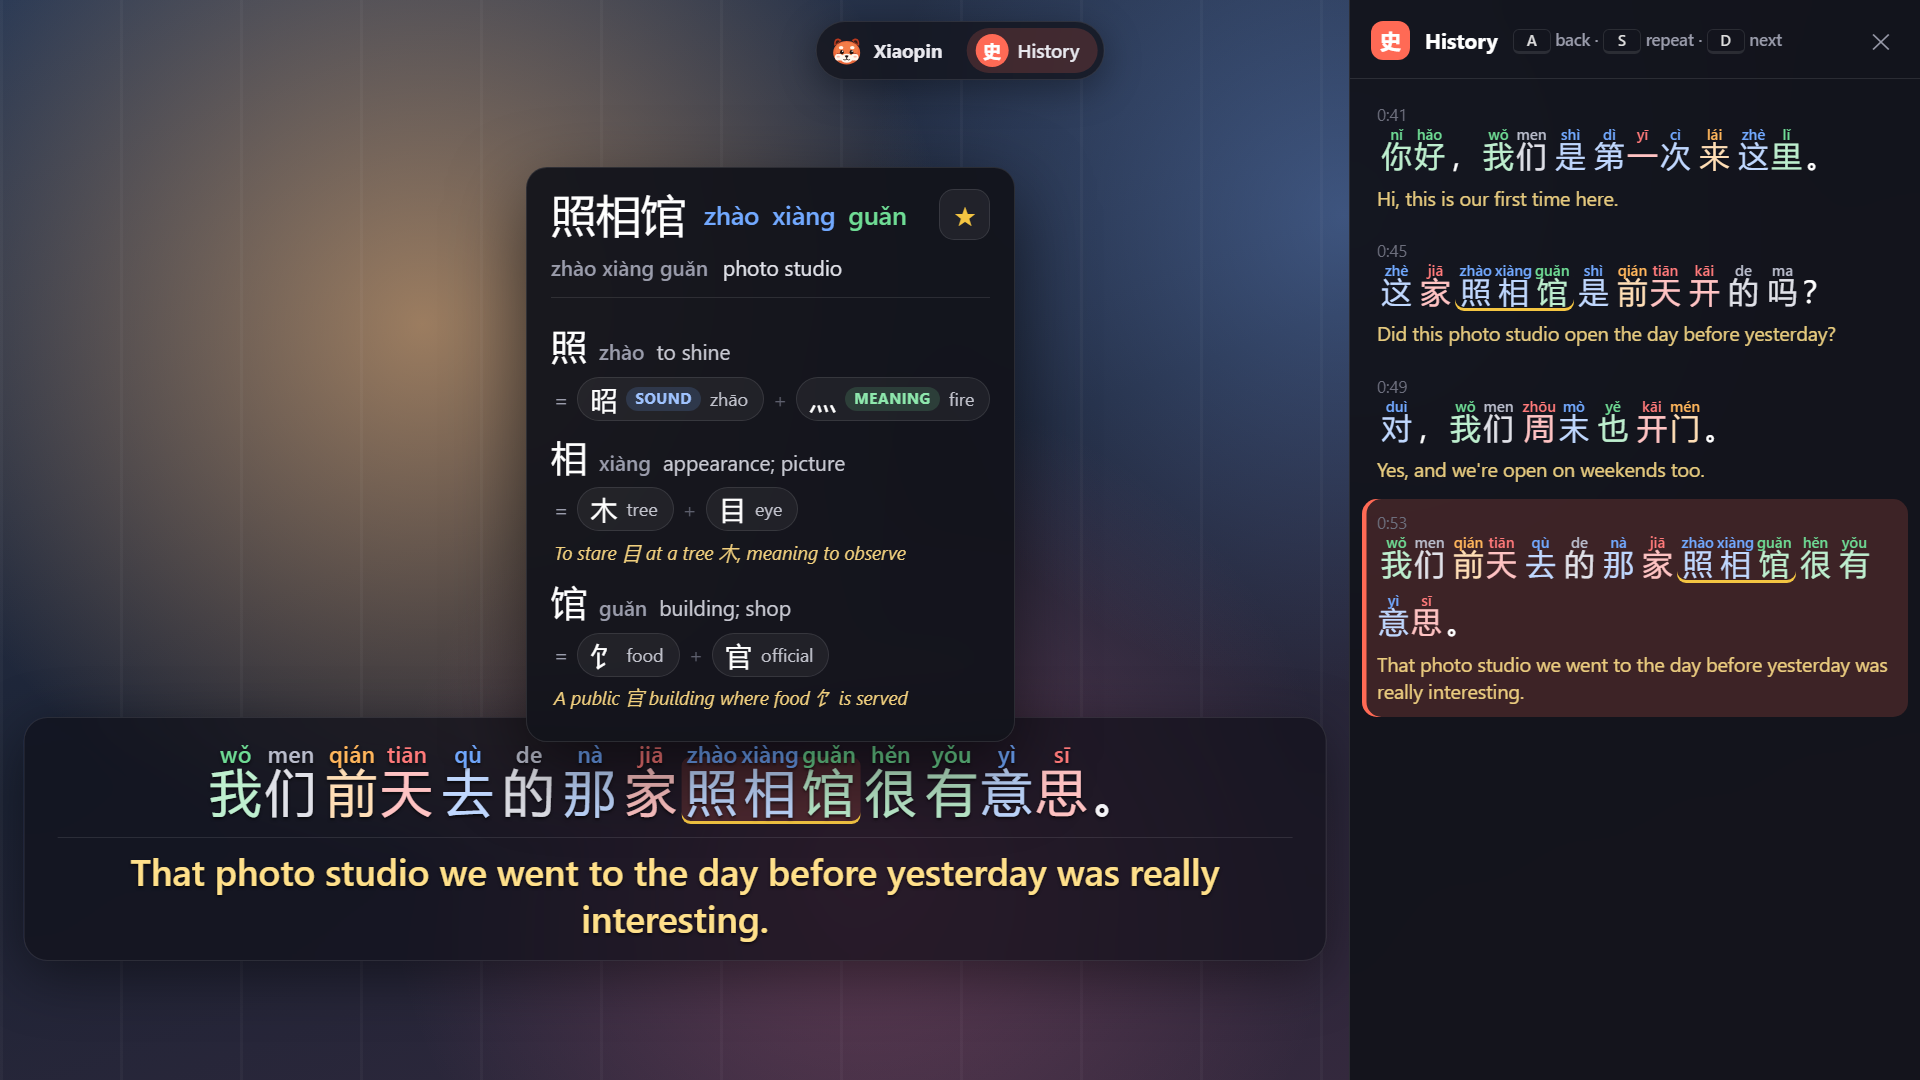
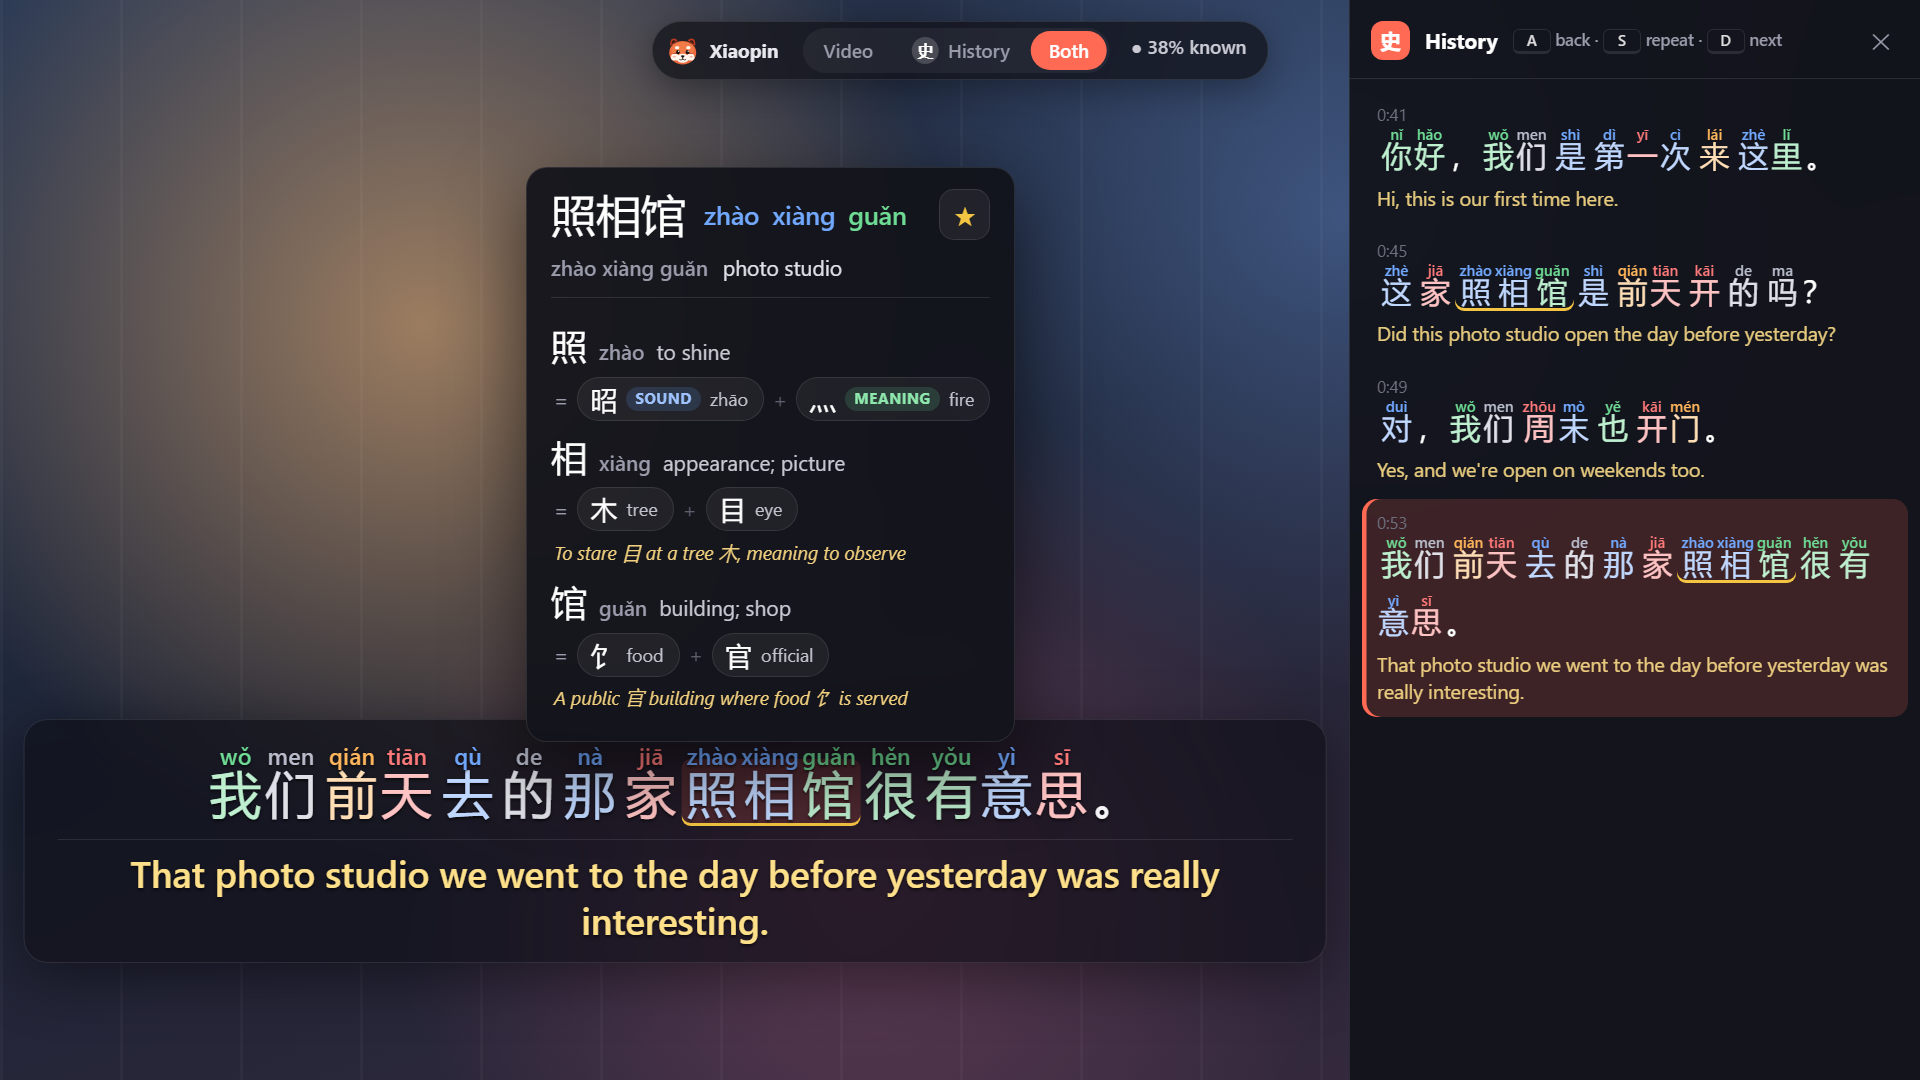
Add privacy policy and Chrome Web Store assets

Changed region(s): [[0.0938, 0.6722, 0.5625, 0.7639], [0.3438, 0.0, 0.6875, 0.0917], [0.0625, 0.7944, 0.625, 0.8861]]

diff --git a/docs/promo-tile.html b/docs/promo-tile.html
@@ -1,0 +1,50 @@
+<!doctype html>
+<html lang="en">
+<head>
+<meta charset="utf-8">
+<title>Xiaopin promo tile</title>
+<!-- Chrome Web Store small promo tile (440×280), rendered with headless Chrome. -->
+<style>
+  html, body { margin: 0; }
+  .t {
+    width: 440px;
+    height: 280px;
+    box-sizing: border-box;
+    padding: 30px 30px;
+    display: flex;
+    flex-direction: column;
+    justify-content: space-between;
+    overflow: hidden;
+    position: relative;
+    font-family: "Segoe UI", Roboto, system-ui, sans-serif;
+    color: #f4f4f7;
+    background:
+      radial-gradient(circle at 10% 15%, rgba(255, 106, 85, 0.45), transparent 45%),
+      radial-gradient(circle at 95% 100%, rgba(114, 169, 255, 0.25), transparent 45%),
+      linear-gradient(135deg, #221d2c, #13121a);
+  }
+  .top { display: flex; align-items: center; gap: 16px; }
+  img { width: 92px; height: 92px; filter: drop-shadow(0 8px 20px rgba(236, 106, 60, 0.45)); }
+  h1 { margin: 0; font-size: 40px; font-weight: 800; letter-spacing: -0.02em; line-height: 1; }
+  h1 span { display: block; font: 500 24px "Microsoft YaHei", "Noto Sans SC", sans-serif; color: #ff6a55; margin-top: 4px; }
+  .card { background: rgba(16, 17, 24, 0.75); border: 1px solid rgba(255,255,255,0.1); border-radius: 12px; padding: 8px 14px; }
+  .py { font-size: 13px; font-weight: 600; }
+  .zh { font: 500 26px "Microsoft YaHei", "Noto Sans SC", sans-serif; letter-spacing: 0.06em; }
+  .en { color: #ffe08a; font-size: 14px; font-weight: 500; }
+  .t1 { color: #ff7a7a; } .t2 { color: #ffb65c; } .t3 { color: #6fdc95; } .t4 { color: #72a9ff; } .t5 { color: #b9bccb; }
+</style>
+</head>
+<body>
+<div class="t">
+  <div class="top">
+    <img src="../assets/mascot.svg" alt="">
+    <h1>Xiaopin<span>小拼 · pinyin subtitles</span></h1>
+  </div>
+  <div class="card">
+    <div class="py"><span class="t3">nǐ</span> <span class="t3">hǎo</span>, <span class="t3">wǒ</span> <span class="t5">men</span> <span class="t1">kāi</span> <span class="t3">shǐ</span> <span class="t2">xué</span> <span class="t1">zhōng</span> <span class="t2">wén</span></div>
+    <div class="zh"><span class="t3">你</span><span class="t3">好</span>，<span class="t3">我</span><span class="t5">们</span><span class="t1">开</span><span class="t3">始</span><span class="t2">学</span><span class="t1">中</span><span class="t2">文</span></div>
+    <div class="en">Hi, let's start learning Chinese</div>
+  </div>
+</div>
+</body>
+</html>

diff --git a/docs/demo.html b/docs/demo.html
@@ -12,7 +12,8 @@
   .stage {
     position: relative;
     width: 1280px;
-    height: 720px;
+    height: 100vh;
+    min-height: 720px;
     overflow: hidden;
     background:
       radial-gradient(circle at 22% 30%, rgba(255, 190, 120, 0.55), transparent 32%),
@@ -64,7 +65,12 @@
 
     <div class="crpy-buttons">
       <button class="crpy-btn crpy-logo"><img class="crpy-mascot" src="../assets/mascot.svg" alt="">Xiaopin</button>
-      <button class="crpy-btn crpy-on"><span class="crpy-btn-ic">史</span>History</button>
+      <div class="crpy-seg">
+        <button>Video</button>
+        <button><span class="crpy-btn-ic">史</span>History</button>
+        <button aria-pressed="true">Both</button>
+      </div>
+      <span class="crpy-feat-toolbar"><span class="crpy-vl-pill" style="padding:0 10px;font:600 12.5px var(--crpy-ui-font);color:#c9cad3">● 38% known</span></span>
     </div>
   </div>
 </div>

diff --git a/PRIVACY.md b/PRIVACY.md
@@ -1,0 +1,52 @@
+# Xiaopin – Privacy policy
+
+_Last updated: 26 October 2026_
+
+Xiaopin ("the extension") is a free, open-source browser extension that shows pinyin, Chinese characters and English subtitles over videos on Crunchyroll and YouTube. This policy explains what data it handles.
+
+## What the extension does not do
+
+- It has **no server** of its own. The developer does not receive, collect, store, sell or share any of your data.
+- It contains no analytics, tracking, advertising or telemetry.
+- It does not record, download or capture video or audio, and does not take screenshots.
+
+## Data that stays on your device
+
+Stored only in your browser (`chrome.storage`), never sent to the developer:
+
+- your settings (display options, language, positions of panels);
+- the API key you enter for AI translation (optional);
+- your word list, word statuses and cached translations and explanations;
+- subtitle files you load yourself.
+
+You can remove all of it by uninstalling the extension or with "Clear saved translations" and the word list controls on the settings page.
+
+## Subtitle data read from the page
+
+On Crunchyroll and YouTube the extension reads the subtitle tracks that the site's own video player already loaded in your browser session, to display them. This text stays on your device, except as described below.
+
+## Data sent to third parties you choose
+
+Only when you have entered your own API key, and only for the features that need it:
+
+- **AI translation, line explanations, "Ask AI" and plain word explanations**: the relevant subtitle lines (and your question, for "Ask AI") are sent to the AI provider you selected in the settings — [OpenRouter](https://openrouter.ai/privacy) or [Anthropic](https://www.anthropic.com/legal/privacy) — using your own key. Their privacy policies apply to that data.
+- **Stroke order**: when you open the stroke-order view, the extension downloads stroke data for those characters from the public jsDelivr CDN (`cdn.jsdelivr.net`). Only the character being looked up is part of the request.
+- **Anki**: if you use "Add to Anki", cards are sent to the AnkiConnect add-on running on your own computer (`127.0.0.1:8765`). Nothing leaves your machine.
+
+## Permissions
+
+- `storage`, `unlimitedStorage`: keep settings, word list and caches on your device.
+- Access to `crunchyroll.com`, `youtube.com` and `crunchyrollcdn.com`: show subtitles on those sites and read the subtitle files their players use.
+- Access to `openrouter.ai` and `api.anthropic.com`: send AI requests with your own key, when you use AI features.
+- Access to `cdn.jsdelivr.net`: download character stroke data.
+- Access to `127.0.0.1:8765` / `localhost:8765`: talk to AnkiConnect on your own computer.
+
+## Children
+
+The extension is not directed at children under 13 and does not knowingly collect data from anyone.
+
+## Contact
+
+Questions or requests: open an issue at https://github.com/pim97/Language-Reactor-alternative/issues.
+
+This extension is an unofficial project and is not affiliated with Crunchyroll, YouTube/Google or any other company.
